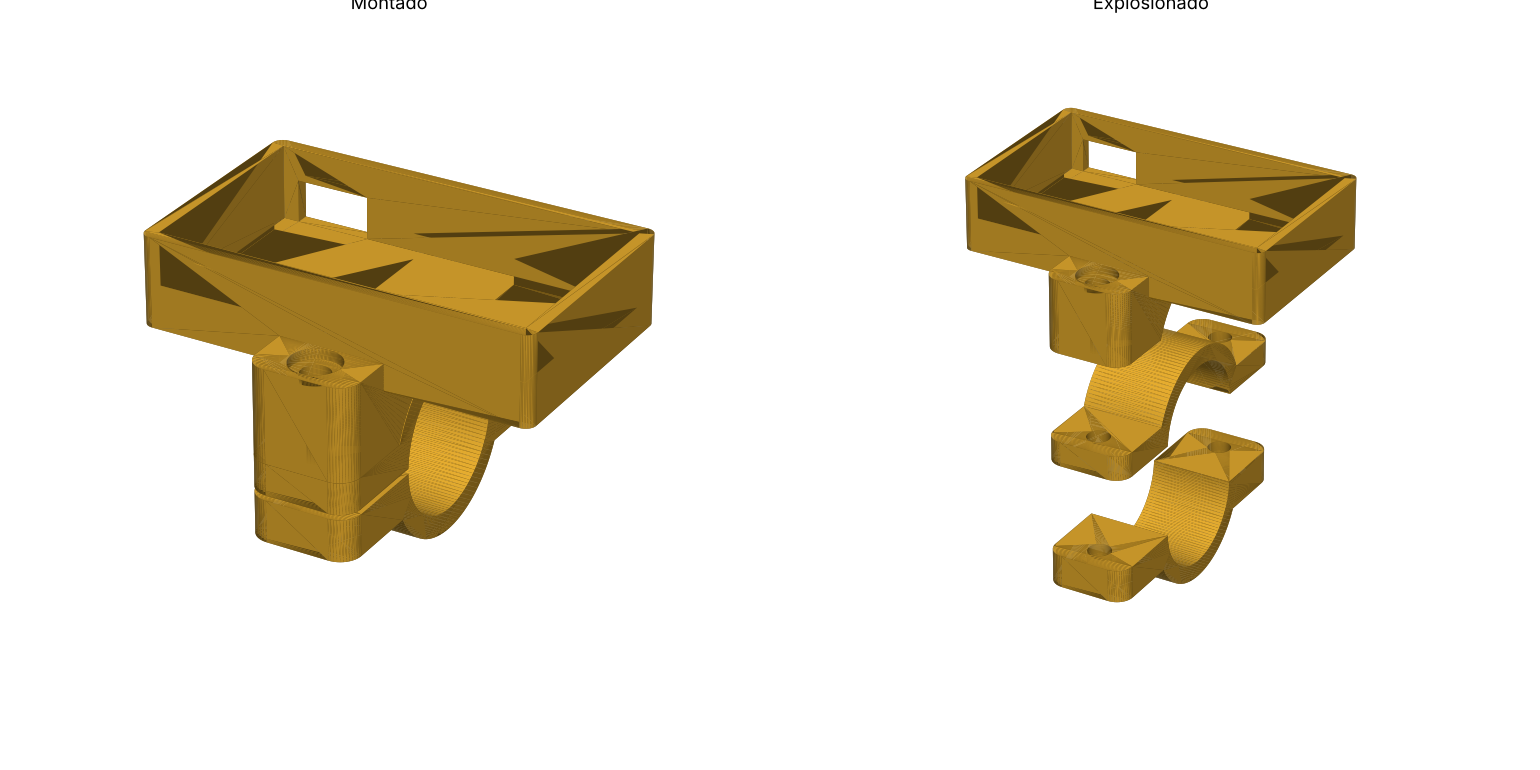
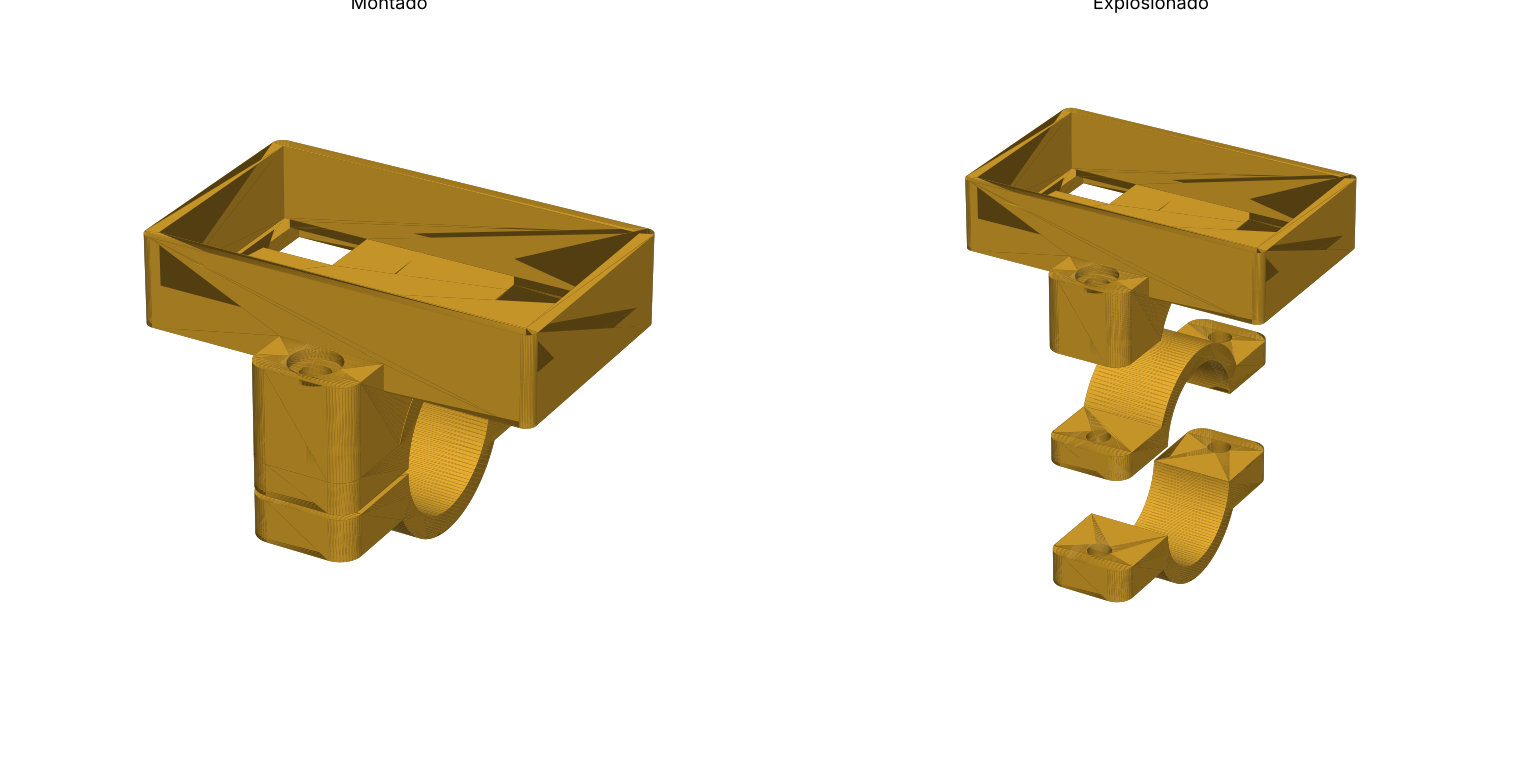
Move cable opening from tray wall to tray floor
Claude-Session: https://claude.ai/code/session_01Gg38JyNaZFf5W9XHesZLsc

Changed region(s): [[0.1558, 0.187, 0.2805, 0.374], [0.6857, 0.1558, 0.7792, 0.2805]]

diff --git a/koso-handlebar-mount/preview_build.py b/koso-handlebar-mount/preview_build.py
@@ -11,7 +11,7 @@ P = dict(
     bolt_d=5.5, nut_af=8.2, nut_depth=4.5, cbore_d=9.5, cbore_depth=2.0,
     tray_in_x=70.0, tray_in_y=40.0, tray_depth=14.0, tray_wall=2.4, tray_floor=3.0,
     ear_t=5.0, saddle_clear=0.3, floor_gap=1.0,
-    ledge_w=10.0, ledge_h=4.0, door_w=14.0, door_h=8.0,
+    ledge_w=10.0, ledge_h=4.0, hole_x=14.0, hole_y=12.0,
 )
 R = (P['bar_d'] + P['bar_clear']) / 2
 Ro = R + P['arch_t']
@@ -56,7 +56,7 @@ ix, iy = P['tray_in_x']/2, P['tray_in_y']/2
 zf = zt + P['tray_floor']
 tray -= box(-ix, ix, -iy, iy, zf, ztop+1)
 tray += box(-ix, ix, -iy, -iy+P['ledge_w'], zf-0.01, zf+P['ledge_h'])
-tray -= box(-ix+3, -ix+3+P['door_w'], iy-1, toy/2+1, zf, zf+P['door_h'])
+tray -= box(-ix+3, -ix+3+P['hole_x'], iy-P['hole_y'], iy, zt-1, zf+1)   # agujero de cable en el fondo
 tray -= holes
 for s in (1, -1):
     tray -= cyl_z(0, s*yb, P['cbore_d']/2, zt+P['ear_t']-P['cbore_depth'], zt+P['ear_t']+1)

diff --git a/koso-handlebar-mount/fusion360/KosoManillarSoporte/KosoManillarSoporte.py b/koso-handlebar-mount/fusion360/KosoManillarSoporte/KosoManillarSoporte.py
@@ -25,7 +25,7 @@ P = dict(
     saddle_clear=0.3,  # holgura silla bandeja / arco
     floor_gap=1.0,     # hueco entre arco y fondo bandeja
     ledge_w=10.0, ledge_h=4.0,       # escalon interior
-    door_w=14.0, door_h=8.0,         # abertura de cable en la pared
+    hole_x=14.0, hole_y=12.0,        # agujero de cable en el fondo
 )
 
 app = adsk.core.Application.get()
@@ -182,7 +182,7 @@ def run(context):
         zf = zt + P['tray_floor']
         b.box(-ix, ix, -iy, iy, zf, ztop + 1, CUT, [tray])
         b.box(-ix, ix, -iy, -iy + P['ledge_w'], zf, zf + P['ledge_h'], JOIN, [tray])
-        b.box(-ix + 3, -ix + 3 + P['door_w'], iy - 1, toy / 2 + 1, zf, zf + P['door_h'], CUT, [tray])
+        b.box(-ix + 3, -ix + 3 + P['hole_x'], iy - P['hole_y'], iy, zt - 1, zf + 1, CUT, [tray])
 
         # --- Tornilleria M5 ---
         for s in (1, -1):

diff --git a/koso-handlebar-mount/README.md b/koso-handlebar-mount/README.md
@@ -6,7 +6,7 @@ Tres piezas, unidas con 2 tornillos M5x30 (allen) y 2 tuercas M5:
 
 | Pieza | Descripción | Orientación de impresión |
 |---|---|---|
-| `Bandeja` | Caja para el marcador con escalón interior y abertura de cable; debajo lleva una silla que abraza el arco y las orejetas para los tornillos | Silla sobre la cama, con soportes bajo las alas del fondo |
+| `Bandeja` | Caja para el marcador con escalón interior y agujero de cable en el fondo; debajo lleva una silla que abraza el arco y las orejetas para los tornillos | Silla sobre la cama, con soportes bajo las alas del fondo |
 | `Abrazadera_Superior` | Arco de 4 mm con patas planas y extremos redondeados | Boca abajo (`stl/clamp_upper.stl` ya viene girada) |
 | `Abrazadera_Inferior` | Arco con patas más gruesas y alojamientos hexagonales para las tuercas | Hexágonos sobre la cama |
 
